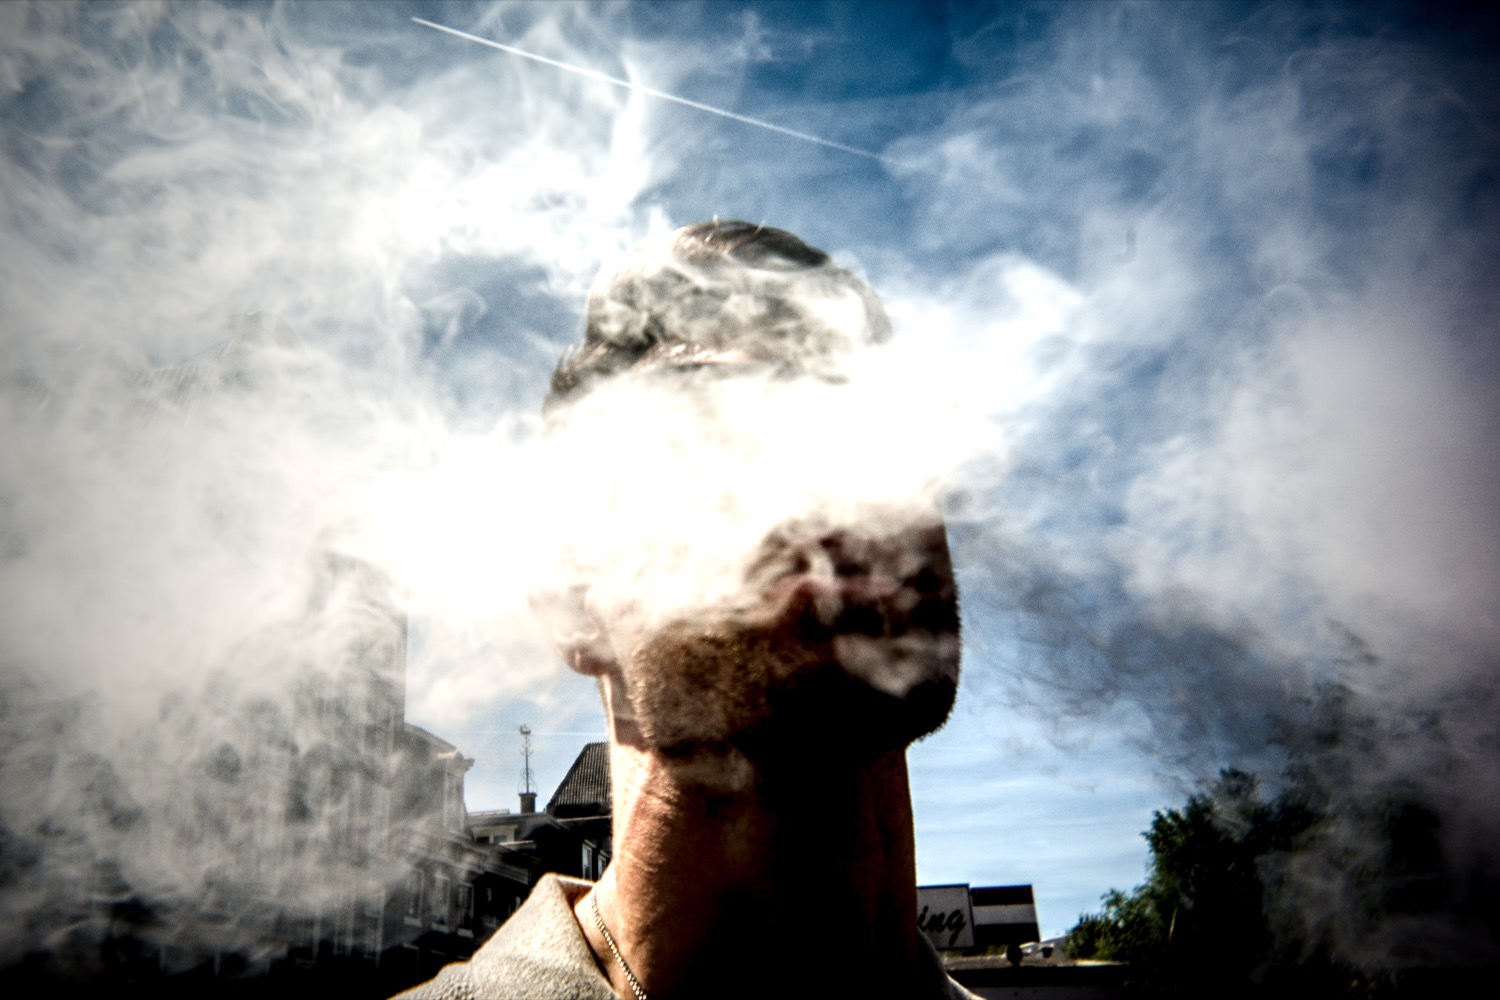
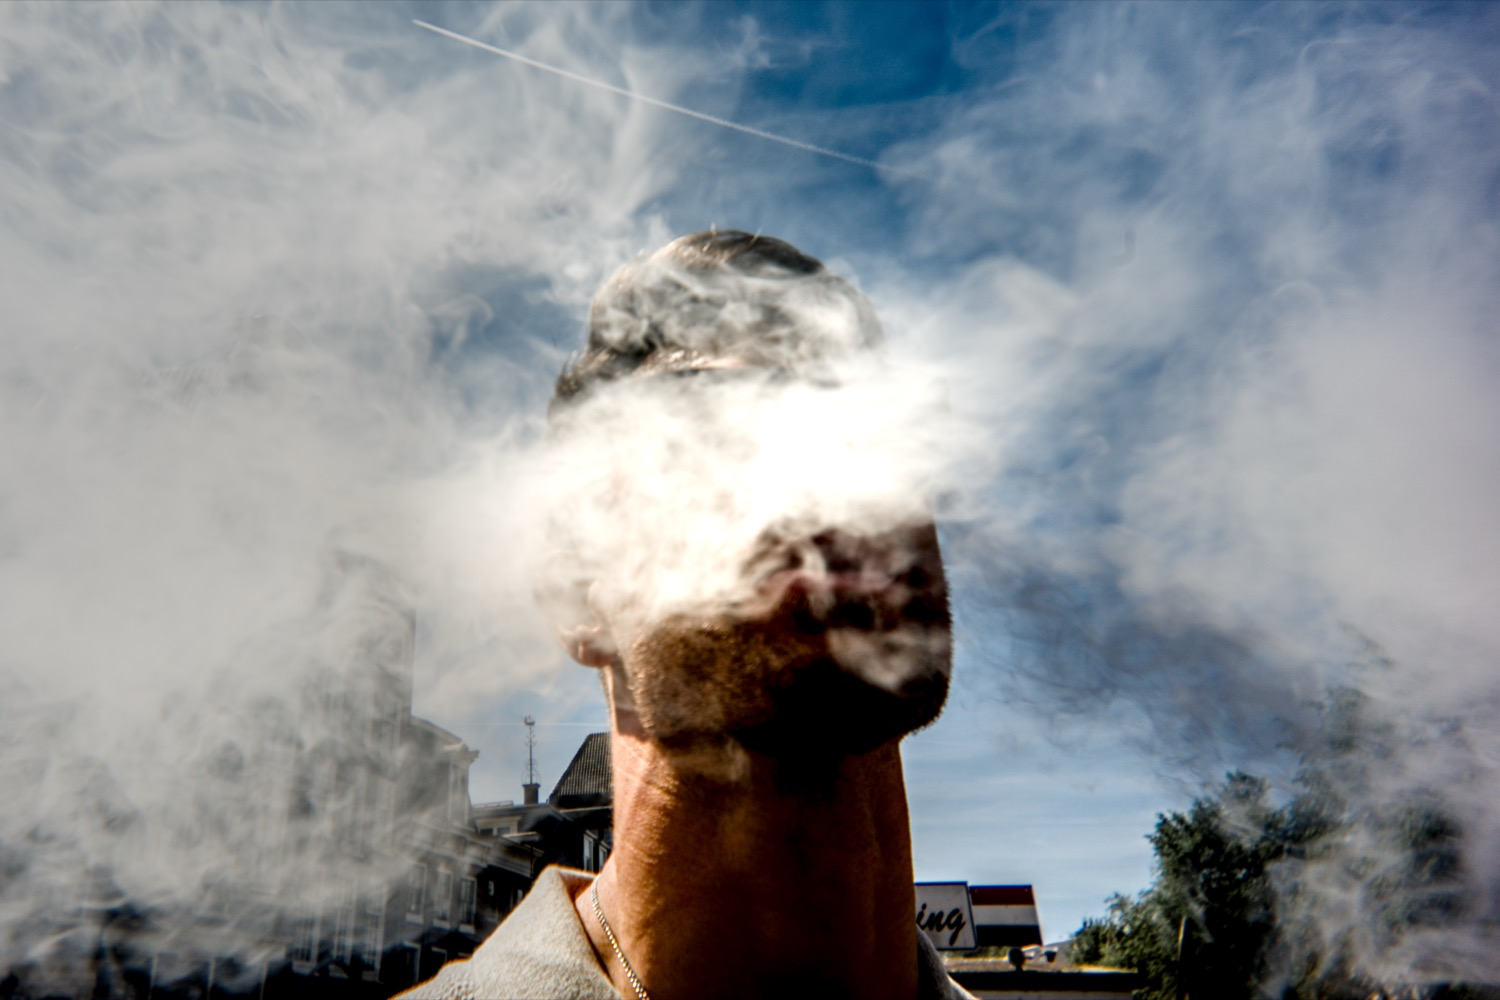
Homepage: centered 3x2 cover image

diff --git a/css/style.css b/css/style.css
@@ -99,45 +99,39 @@ nav.solid {
    COVER (homepage)
 ================== */
 .cover {
-  position: relative;
-  width: 100%;
-  height: 100vh;
-  overflow: hidden;
+  padding-top: var(--nav-height);
+  display: flex;
+  flex-direction: column;
+  align-items: center;
+  padding-bottom: 60px;
 }
 
-.cover img {
+.cover-image-wrap {
+  position: relative;
+  width: 100%;
+  max-width: 900px;
+  aspect-ratio: 3/2;
+  overflow: hidden;
+  margin: 40px auto 0;
+}
+
+.cover-image-wrap img {
   width: 100%;
   height: 100%;
   object-fit: cover;
   object-position: center;
 }
 
-.cover-overlay {
-  position: absolute;
-  inset: 0;
-  background: rgba(0,0,0,0.35);
-}
-
 .cover-title {
-  position: absolute;
-  bottom: 50px;
-  left: 40px;
-}
-
-.cover-title h1 {
-  font-size: 0.85rem;
-  font-weight: 300;
-  letter-spacing: 0.2em;
-  text-transform: uppercase;
-  color: #fff;
+  margin-top: 20px;
+  text-align: center;
 }
 
 .cover-title p {
   font-size: 0.7rem;
   letter-spacing: 0.12em;
   text-transform: uppercase;
-  color: rgba(255,255,255,0.5);
-  margin-top: 6px;
+  color: rgba(255,255,255,0.4);
 }
 
 /* ==================

diff --git a/index.html b/index.html
@@ -8,7 +8,7 @@
 </head>
 <body>
 
-  <nav class="transparent">
+  <nav class="solid">
     <a href="index.html" class="nav-logo">Lazaros Spaias</a>
     <ul class="nav-links">
       <li><a href="projects.html">Projects</a></li>
@@ -18,26 +18,15 @@
   </nav>
 
   <div class="cover">
-    <!-- Replace cover/cover.jpg with your image -->
-    <img src="images/cover/cover.jpg" alt="Lazaros Spaias Photography">
-    <div class="cover-overlay"></div>
+    <div class="cover-image-wrap">
+      <img src="images/cover/cover.jpg" alt="Lazaros Spaias Photography">
+    </div>
     <div class="cover-title">
       <p>Documentary &amp; Street Photography</p>
     </div>
   </div>
 
   <script src="js/protect.js"></script>
-  <script>
-    // Switch nav to solid after scrolling past cover
-    const nav = document.querySelector('nav');
-    window.addEventListener('scroll', () => {
-      if (window.scrollY > window.innerHeight * 0.8) {
-        nav.classList.replace('transparent', 'solid');
-      } else {
-        nav.classList.replace('solid', 'transparent');
-      }
-    });
-  </script>
 
 </body>
 </html>